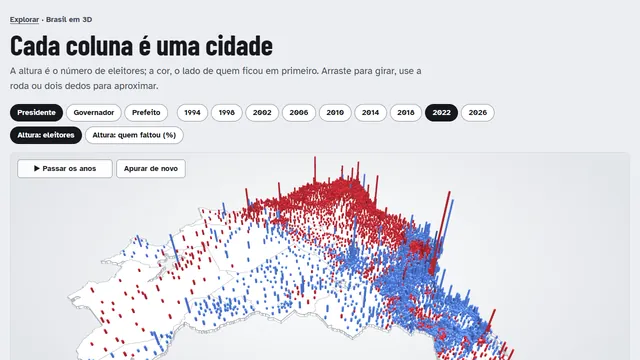
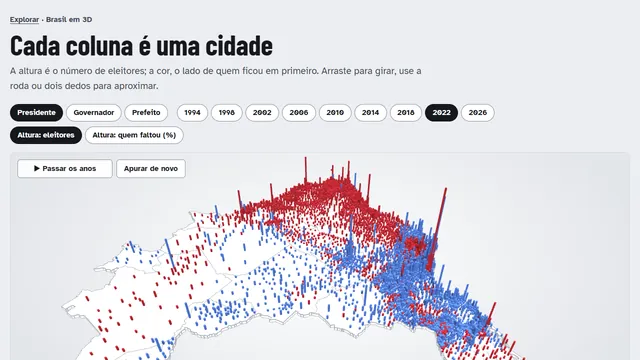
Polimento para a entrega: abas revisadas com explicações diretas, 2026 na apresentação e Grupo 6 corrigido
- Ficha: maior votação dos dois turnos, frase de resumo, nota em palavras, gastos da eleição mais recente
- Partidos: nota explicada, "quase sempre" no lugar da correlação, só a nota no gráfico (estudos num botão),
  comparação entre estudos recolhida
- Mapa: "Como a cor é decidida" e uma frase de como ler; Máquina do tempo e 3D com nomes conhecidos e números rotulados
- "Em resumo" na Ninguém e no Revela; frase para leigo nos Formulários
- Modo apresentação: passo de 2026 (Lula eleito no 2º turno) e o tema 1 no lugar do índice; Explorar numa grade só
- Corrida do patrimônio com os eleitos finais de 2026; miniaturas refeitas; sem o aviso de contas parciais
- trabalho-6-estados: "Grupo 5" corrigido para "Grupo 6" (ia para o apêndice do relatório)

Changed region(s): [[0.0938, 0.4278, 0.8125, 1.0]]

diff --git a/js/partidos.js b/js/partidos.js
@@ -39,8 +39,8 @@
       const dica = V.esc(`${r.sg} em ${ano}: nota ${fmt(s.c)} (${faixa(s.c)})` + F.filter((f) => s.f[f]).map((f) => `; ${NOME_F[f]} ${fmt(s.f[f].v)}${s.f[f].antiga || s.f[f].ano !== +ano ? " (medida de " + s.f[f].ano + ")" : ""}`).join("") + (s.incerta ? ". As medidas discordam do lado." : "") + (s.distante ? " Medida feita longe desta eleição." : ""));
       return `<g><title>${dica}</title>
         <text x="${lab - 10}" y="${y + 5}" text-anchor="end" font-size="${fs}" font-weight="700" fill="#16181d">${V.esc(r.sg)}</text>
-        ${s.max - s.min > 0.005 ? `<line x1="${x(s.min)}" x2="${x(s.max)}" y1="${y}" y2="${y}" stroke="#9aa0aa" stroke-width="2"/>` : ""}
-        ${F.filter((f) => s.f[f]).map((f) => marca(f, x(s.f[f].v), y, est ? 3.5 : 4.5, s.f[f].antiga ? 'opacity=".35"' : 'opacity=".8"')).join("")}
+        ${EST && EST.estudos && s.max - s.min > 0.005 ? `<line x1="${x(s.min)}" x2="${x(s.max)}" y1="${y}" y2="${y}" stroke="#9aa0aa" stroke-width="2"/>` : ""}
+        ${EST && EST.estudos ? F.filter((f) => s.f[f]).map((f) => marca(f, x(s.f[f].v), y, est ? 3.5 : 4.5, s.f[f].antiga ? 'opacity=".35"' : 'opacity=".8"')).join("") : ""}
         <circle cx="${x(s.c)}" cy="${y}" r="${est ? 6.5 : 7.5}" fill="${cor(s.c)}" stroke="#16181d" stroke-width="1.5"${s.incerta ? ' stroke-dasharray="3 2"' : ""}/>
         ${est || !s.incerta ? "" : `<text x="${W - dir + 12}" y="${y + 5}" font-size="14" font-weight="700" fill="#9c5d16">incerto</text>`}</g>`;
     }).join("");
@@ -118,7 +118,7 @@
     document.getElementById("pt-ano-tit").textContent = `Onde fica cada partido em ${ano}`;
     document.getElementById("pt-ano-sub").textContent = `${L.length} partidos que disputaram a eleição e foram medidos por pelo menos uma das quatro fontes. ${inc.length ? `As medidas discordam sobre o lado de ${inc.join(", ").replace(/, ([^,]*)$/, " e $1")}.` : "As medidas concordam sobre o lado de todos."}`;
     document.getElementById("pt-ano-graf").innerHTML = modo === "tab" ? tabelaAno(L, ano) : graficoAno(L, ano);
-    document.getElementById("pt-ano-leg").hidden = modo === "tab";
+    document.getElementById("pt-ano-leg").hidden = modo === "tab" || !EST.estudos;
     const i = EST.anos.indexOf(ano), fx = document.getElementById("pt-ano-faixa");
     if (fx) { fx.value = i; fx.setAttribute("aria-valuetext", ano); document.getElementById("pt-ano-num").textContent = ano;
       document.querySelector('[data-passo="-1"]').disabled = i <= 0; document.querySelector('[data-passo="1"]').disabled = i >= EST.anos.length - 1; }
@@ -140,6 +140,8 @@
 
   document.getElementById("conteudo").addEventListener("click", (e) => {
     if (!EST || !e.target.closest(".pt-pagina")) return;
+    const es = e.target.closest("[data-estudos]");
+    if (es) { EST.estudos = !EST.estudos; es.setAttribute("aria-pressed", String(EST.estudos)); es.textContent = EST.estudos ? "Esconder a nota de cada estudo" : "Mostrar a nota de cada estudo"; pintarAno(); return; }
     const ps = e.target.closest("[data-passo]");
     if (ps) { const j = EST.anos.indexOf(EST.ano) + +ps.dataset.passo; if (EST.anos[j]) { EST.ano = EST.anos[j]; pintarAno(); } return; }
     const a = e.target.closest("[data-ano]"), md = e.target.closest("#pt-ano [data-modo]"), p = e.target.closest("[data-partido]"), pr = e.target.closest("[data-par]");
@@ -171,7 +173,7 @@
     const rmin = Math.min(...pares.map((x) => x.p.r)), rmax = Math.max(...pares.map((x) => x.p.r));
     const anos = Object.keys(D.presentes).sort();
     let modo = "graf"; try { modo = localStorage.getItem("vav-pq-modo") === "tab" ? "tab" : "graf"; } catch (e) {}
-    EST = { D, anos, ano: anos.includes("2022") ? "2022" : anos[anos.length - 1], k: "PSDB", modo, par: 3, pares };
+    EST = { D, estudos: false, anos, ano: anos.includes("2022") ? "2022" : anos[anos.length - 1], k: "PSDB", modo, par: 3, pares };
     const nUlt = Object.keys(D.presentes[ultAno] || {}).filter((k) => D.partidos[k] && D.partidos[k].serie[ultAno]).length;
     const outros = Object.entries(D.partidos).filter(([k]) => !PRINC.includes(k) && Object.keys(D.partidos[k].serie).length > 1).sort((a, b) => a[1].nome.localeCompare(b[1].nome));
     const fonte = (f) => D.fontes[f];
@@ -183,9 +185,10 @@
         <p class="pq-resposta">Três estudos feitos por gente diferente põem o partido do mesmo lado em ${pct(igual, n)} das vezes. O voto na Câmara concorda com eles, menos no centrão${afast.length ? `: ${nomesL(afast)} votam mais ao centro do que os estudos dizem, porque acompanham o governo da vez` : ""}.</p>
         <ul class="kpis pt-kpis">
           <li><b>${pct(igual, n)}</b><span>das vezes, os três estudos põem o partido do mesmo lado</span></li>
-          <li><b>${r2(rmin)} a ${r2(rmax)}</b><span>de correlação entre as quatro medidas (1 seria concordância total)</span></li>
+          <li><b>Quase sempre</b><span>as quatro medidas dão notas parecidas a cada partido (correlação de ${r2(rmin)} a ${r2(rmax)}; 1 seria igual)</span></li>
           <li><b>${nUlt}</b><span>partidos com nota em ${ultAno}</span></li>
         </ul>
+        <p class="pt-escala">A nota de cada partido vai de <b>−1</b> (mais à esquerda) a <b>+1</b> (mais à direita); entre −0,25 e +0,25 é centro.</p>
         <details class="mais pt-mais"><summary>Quem deu as notas e como elas viram uma régua só</summary><p class="pq-mais">Deputados federais (Zucco e Power, 2024), 519 cientistas políticos brasileiros (Bolognesi, Ribeiro e Codato, 2023) e especialistas internacionais (V-Party, 2022) deram notas aos partidos. A quarta medida é o que as bancadas mandaram votar na Câmara de 2019 a 2026, a única que já pega o PL de Bolsonaro e o União Brasil. Tudo fica na mesma escala, de −1 (esquerda) a +1 (direita). A nota de cada partido em cada eleição pesa mais a medida feita mais perto dela, e é a régua que pinta o mapa.</p></details>
       </header>
 
@@ -196,7 +199,8 @@
         </div>
         <div class="pt-ano-passo"><button type="button" class="btn pt-seta" data-passo="-1" aria-label="Eleição anterior"></button><output id="pt-ano-num" class="pt-ano-num" for="pt-ano-faixa"></output><button type="button" class="btn pt-seta pt-seta--prox" data-passo="1" aria-label="Próxima eleição"></button>
           <label class="pt-ano-faixa"><span class="visualmente-oculto">Ano da eleição</span><input type="range" id="pt-ano-faixa" min="0" max="${anos.length - 1}" step="1" value="0"><span class="pt-ano-faixa__pontas" aria-hidden="true"><span>${anos[0]}</span><span>${anos[anos.length - 1]}</span></span></label></div>
-        <div id="pt-ano-leg">${legenda()}</div>
+        <p class="pt-estudos-linha"><button type="button" class="chip" data-estudos aria-pressed="false">Mostrar a nota de cada estudo</button></p>
+        <div id="pt-ano-leg" hidden>${legenda()}</div>
         <div class="pq-graf" id="pt-ano-graf"></div>
         <details class="mais pt-comoler"><summary>Como ler este gráfico</summary><p class="pq-nota">A bolinha colorida é a nota do partido (tracejada quando as medidas discordam do lado); a linha cinza vai da medida que põe o partido mais à esquerda à que põe mais à direita. Marca clara: medida feita longe desta eleição, que pesa menos. Faixa bege: o centro, de −0,25 a +0,25.</p></details>
       </section>
@@ -209,6 +213,7 @@
         <div class="pq-graf" id="pt-traj-graf"></div>
       </section>
 
+      <details class="mais pt-conc-mais"><summary>Como sabemos que a régua é confiável: os estudos comparados um a um</summary>
       <section class="pq-painel pt-concorda" id="pt-conc" aria-labelledby="pt-conc-tit">
         <div><h2 class="pq-painel__tit" id="pt-conc-tit">As medidas concordam entre si: correlação de ${r2(rmin)} a ${r2(rmax)}</h2>
           <p class="pq-painel__rec">Cada ponto é um partido medido pelas duas fontes em datas próximas (até 2 anos; até 5 com o voto na Câmara). Na diagonal, as duas dão a mesma nota. Em laranja, os casos em que põem o partido em lados diferentes.</p></div>
@@ -219,6 +224,7 @@
           <tbody>${pares.map(({ a, b, p }) => `<tr><th scope="row">${NOME_F[a]} × ${NOME_F[b]}</th><td class="num">${r2(p.r)}</td><td class="num">${p.mesmo_lado} de ${p.n}</td><td>${V.esc(agrupa(p.lados_diferentes, D)) || "—"}</td></tr>`).join("")}</tbody></table></div>
         <details class="mais pt-mais"><summary>Onde as medidas discordam</summary><p class="pq-mais">Entre os estudos, quem mais aparece em lados diferentes é o PSDB: para os deputados ele fica no centro, para o V-Party, que mede só a economia, ele é de direita. Entre os estudos e o voto, é o centrão: partidos que os especialistas põem à direita, mas que votam com o governo da vez, de Bolsonaro e de Lula, e por isso caem no meio da régua do voto.</p></details>
       </section>
+      </details>
 
       <details class="pq-origem"><summary>Como as notas foram feitas</summary>
         <p><b>As quatro medidas.</b> ${F.map((f) => `${fonte(f).nome}: ${fonte(f).quem}.`).join(" ")}</p>

diff --git a/js/politico.js b/js/politico.js
@@ -84,7 +84,7 @@
       return `<li class="${sit === "E" ? "pol-hist--eleito" : ""}">
         <span class="pol-hist__ano">${ano}</span>
         <span class="pol-hist__cargo"><b>${CARGO[cg] || "Cargo " + cg}</b> <span class="selo ${s[1]}"${s[2] ? ` title="${V.esc(s[2])}"` : ""}>${s[0]}</span><small>${V.esc(V.lugarPol(lugar, BR))}${nr ? ` · nº ${nr}` : ""}${ui >= 0 && !semUrna(urnas[ui]) ? ` · na urna: ${V.esc(V.titulo(urnas[ui]))}` : ""}</small></span>
-        <span class="pol-hist__partido">${partido(sg, n)} <small>${n != null ? nota(n) : "sem nota"}</small></span>
+        <span class="pol-hist__partido">${partido(sg, n)} <small>${n != null ? `${V.ESPN[faixa(n)].toLowerCase()} (${nota(n)})` : "partido sem nota"}</small></span>
         <span class="pol-hist__num"><span><small>Votos${v2 ? " (1º turno)" : ""}</small>${v1 != null ? V.int(v1) : "—"}</span>${v2 ? `<span><small>2º turno</small>${V.int(v2)}</span>` : ""}${din}${patr != null ? `<span><small>Bens declarados</small>${V.brl(patr)}</span>` : ""}</span>
       </li>`; }).join("")}</ol>`;
   }
@@ -208,21 +208,24 @@
     const fotos = await (FOTOS || (FOTOS = V.dados("br/pol/fotos").then((ids) => new Set(ids)).catch(() => new Set())));
     const foto = cf ? V.fotoOu(cf[0], cf[18], ini) : fotos.has(+id) ? `<img alt="" src="img/pol/${id % 100}/${id}.webp" onerror="this.replaceWith(document.createRange().createContextualFragment(this.dataset.f))" data-f="${V.esc(ini)}">` : ini;
     const maior = cands.reduce((m, c) => ((c[7] || 0) > (m[7] || 0) ? c : m), cands[0]);
+    // a maior votação olha os dois turnos (Lula: 64,3 milhões no 2º turno de 2026) e diz qual foi
+    const topo = cands.reduce((m, c) => { const v = Math.max(c[7] || 0, c[8] || 0); return v > m.v ? { v, c, t2: (c[8] || 0) > (c[7] || 0) } : m; }, { v: 0, c: cands[0], t2: false });
     // partidos na ordem em que passou por eles
     const trajeto = []; cands.forEach((c) => { const u = trajeto[trajeto.length - 1]; if (!u || u.sg !== c[3]) trajeto.push({ sg: c[3], de: c[0], ate: c[0] }); else u.ate = c[0]; });
     document.title = `${V.titulo(nome)} · Voto a voto`;
-    let selGasto = 0, selPlano = 0, filtro = "", nVotos = 30;
+    let selGasto = Math.max(0, cands.filter((c) => c[15] && c[15].length).length - 1), selPlano = 0, filtro = "", nVotos = 30;   // gastos: abre na eleição mais recente
     main.innerHTML = `<div class="pagina pol">
       <p class="pq-migalha"><a href="#/perguntas/e2">Histórico eleitoral</a> · <a href="#/perguntas">As 16 perguntas</a></p>
       <header class="pol-cab">
         <div class="pol-foto">${foto}</div>
         <div><h1 class="pol-nome">${V.esc(V.titulo(nome))}</h1>
           <p class="pol-sub">${urnasVal.length ? `Na urna: ${urnasVal.map((u) => V.esc(V.titulo(u))).join(", ")}` : ""}${nasc ? ` · nasceu em ${nasc}` : ""}${genero ? ` · ${V.esc(genero.toLowerCase())}` : ""}${cor && !/^#|N[ÃA]O INFORMADO|N[ÃA]O DIVULG/i.test(cor) ? ` · cor ou raça declarada: ${V.esc(cor.toLowerCase())}` : ""}</p>
+          <p class="pol-resumo">${V.esc(V.titulo(urnasVal.length ? urnasVal[urnasVal.length - 1] : nome))} disputou ${anos.length} ${anos.length === 1 ? "eleição" : "eleições"}${anos.length > 1 ? `, de ${anos[0]} a ${anos[anos.length - 1]},` : ` em ${anos[0]}`} e ${vit ? `venceu ${vit === anos.length && vit > 1 ? "todas" : vit}` : "não venceu nenhuma"}.</p>
           <ul class="pq-banco pol-banco">
             <li><b>${cands.length}</b><span>${cands.length === 1 ? "candidatura" : "candidaturas"}</span></li>
             <li><b>${vit}</b><span>${vit === 1 ? "vitória" : "vitórias"}</span></li>
             <li><b>${anos[0]}${anos.length > 1 ? "–" + anos[anos.length - 1] : ""}</b><span>${anos.length} ${anos.length === 1 ? "eleição" : "eleições"}</span></li>
-            <li><b>${maior[7] ? V.int(maior[7]) : "—"}</b><span>maior votação (${CARGO[maior[1]]} ${maior[0]})</span></li>
+            <li><b>${topo.v ? V.int(topo.v) : "—"}</b><span>maior votação (${CARGO[topo.c[1]]} ${topo.c[0]}${topo.t2 ? ", 2º turno" : ""})</span></li>
           </ul></div>
       </header>
       ${semTitulo ? '<p class="aviso">O arquivo do TSE não trouxe o título de eleitor desta candidatura (acontece em 1996 e em registros incompletos). Sem ele, não dá para ligar com certeza as candidaturas desta pessoa em outros anos, que podem estar em outra ficha.</p>' : ""}

diff --git a/js/apresentar.js b/js/apresentar.js
@@ -7,9 +7,10 @@
     ["#/", "O candidato mais votado do Brasil se chama Ninguém", "Em 2024, 42,6 milhões de eleitores faltaram, anularam ou votaram em branco para prefeito."],
     ["#/multidao", "Ninguém, em pessoas", "Cada ponto são mil eleitores. Eles saem das cidades onde moram e lotam o Maracanã 539 vezes."],
     ["#/mapa", "As 5.570 cidades", "Cada cidade com a cor do lado de quem venceu, de 1994 a 2026, em sete cargos."],
+    ["#/mapa/e/PRES2026", "2026: Lula eleito no 2º turno", "64,3 milhões de votos contra 59,8 milhões de Flávio Bolsonaro. Do 1º para o 2º turno, 215 cidades mudaram de lado."],
     ["#/tempo", "Trinta anos em um minuto", "As eleições para presidente passando uma a uma, cidade por cidade."],
     ["#/3d", "O Brasil em 3D", "Cada coluna é uma cidade: a altura é o número de eleitores; a cor, o lado de quem venceu."],
-    ["#/perguntas", "As 16 perguntas do trabalho", "Cada tema do enunciado com a resposta em uma frase, os números que a sustentam e os gráficos, do banco nacional."],
+    ["#/perguntas/t1", "As 16 perguntas do trabalho", "Cada tema respondido pergunta por pergunta: uma frase direta e o gráfico que a mostra, com os números do banco nacional."],
     ["#/partidos", "Onde fica cada partido", "Entre a esquerda e a direita, segundo três estudos acadêmicos e o voto na Câmara."],
     ["#/politico/1713641", "A ficha de 2,4 milhões de candidatos", "Cada eleição, partido, votos, dinheiro e bens."],
     ["#/patrimonio", "Quem declarou mais bens", "Os eleitos com mais bens declarados ao TSE, eleição por eleição, de 2006 a 2026."],
@@ -93,8 +94,7 @@
           <p>O site inteiro em ${ROTEIRO.length} passos, do Ninguém às 16 perguntas, em tela cheia. Passe com as setas do teclado ou com o passador de slides; Esc sai.</p></div>
         <button type="button" class="btn btn--confirma vis-comecar" id="vis-comecar">Começar a apresentação</button>
       </section>
-      <section aria-labelledby="vis-ver"><h2 class="secao__titulo" id="vis-ver">Para ver</h2><ul class="vis-cards">${VER.map(cartao).join("")}</ul></section>
-      <section aria-labelledby="vis-usar"><h2 class="secao__titulo" id="vis-usar">Para usar</h2><ul class="vis-cards vis-cards--usar">${USAR.map(cartao).join("")}</ul></section>
+      <section aria-labelledby="vis-ver"><h2 class="secao__titulo" id="vis-ver">Para ver e usar</h2><ul class="vis-cards">${[...VER, ...USAR].map(cartao).join("")}</ul></section>
     </div>`;
     document.getElementById("vis-comecar").addEventListener("click", () => V.comecarTour(0));
   });

diff --git a/js/visuais.js b/js/visuais.js
@@ -23,13 +23,16 @@
   V.SEM_COR = "#d9dce1";
   V.corVenc = (w) => (w && w[9] ? V.corNota(w[8]) : V.SEM_COR);
 
+  // os presidenciáveis pelo nome que o eleitor conhece (o arquivo antigo do TSE traz o nome completo)
+  const CURTO = { "LUIZ INACIO LULA DA SILVA": "Lula", "FERNANDO HENRIQUE CARDOSO": "Fernando Henrique", "ESPERIDIAO AMIN HELOU FILHO": "Esperidião Amin", "LEONEL DE MOURA BRIZOLA": "Brizola", "ORESTES QUERCIA": "Quércia" };
+  V.nomeCurto = (n) => CURTO[String(n || "").toUpperCase()] || V.titulo(n);
   // resumo de uma eleição: cidades por lado e os nomes (ou partidos) que mais ficaram em 1º
   V.resumoVis = (venc, cargo) => {
     const lados = { esquerda: 0, centro: 0, direita: 0, sem: 0 }, nomes = new Map();
     for (const w of Object.values(venc)) {
       if (!w || !w[9]) { lados.sem++; continue; }
       lados[V.faixa(w[8]) || "sem"]++;
-      const k = cargo === "PRES" ? V.titulo(w[1]) : V.nomePartido(w[2]);
+      const k = cargo === "PRES" ? V.nomeCurto(w[1]) : V.nomePartido(w[2]);
       nomes.set(k, (nomes.get(k) || 0) + 1);
     }
     return { lados, top: [...nomes].sort((a, b) => b[1] - a[1]).slice(0, 3) };
@@ -42,7 +45,8 @@
   V.barraLados = (r) => {
     const t = r.lados.esquerda + r.lados.centro + r.lados.direita + r.lados.sem || 1;
     const f = [["esquerda", V.corNota(-0.75), "#fff"], ["centro", V.corNota(0), "#16181d"], ["direita", V.corNota(0.75), "#fff"], ["sem", V.SEM_COR, "#16181d"]];
-    return `<div class="vis-barra" role="img" aria-label="${f.map(([k]) => `${k === "sem" ? "sem resultado" : k}: ${V.int(r.lados[k])} cidades`).join(", ")}">${f.map(([k, c, tc]) => r.lados[k] ? `<i style="flex-basis:${(100 * r.lados[k]) / t}%;background:${c};color:${tc}">${(100 * r.lados[k]) / t >= 9 ? V.int(r.lados[k]) : ""}</i>` : "").join("")}</div>`;
+    return `<div class="vis-barra" role="img" aria-label="${f.map(([k]) => `${k === "sem" ? "sem resultado" : k}: ${V.int(r.lados[k])} cidades`).join(", ")}">${f.map(([k, c, tc]) => r.lados[k] ? `<i style="flex-basis:${(100 * r.lados[k]) / t}%;background:${c};color:${tc}">${(100 * r.lados[k]) / t >= 9 ? V.int(r.lados[k]) : ""}</i>` : "").join("")}</div>
+      <p class="vis-barra__leg">Cidades onde venceu a esquerda: <b>${V.int(r.lados.esquerda)}</b> · o centro: <b>${V.int(r.lados.centro)}</b> · a direita: <b>${V.int(r.lados.direita)}</b>${r.lados.sem ? ` · sem resultado: ${V.int(r.lados.sem)}` : ""}</p>`;
   };
 
   // um mapa do Brasil em <canvas>, com as cidades já projetadas (data/br/geo_proj): bem mais leve que 5.570 <path> para animar

diff --git a/index.html b/index.html
@@ -5,7 +5,7 @@
 <meta name="viewport" content="width=device-width, initial-scale=1, viewport-fit=cover">
 <title>Voto a voto · o que o voto revela sobre o Brasil</title>
 <meta name="description" content="Como votou cada uma das 5.570 cidades do Brasil, de 1994 a 2026, com os partidos na régua ideológica de Zucco e Power (Harvard Dataverse).">
-<link rel="stylesheet" href="css/estilo.css?v=20261118-afirma3">
+<link rel="stylesheet" href="css/estilo.css?v=20261118-polir">
 </head>
 <body>
 <a class="pular" href="#conteudo">Pular para o conteúdo</a>
@@ -36,24 +36,24 @@
 </footer>
 <script src="vendor/d3.min.js"></script>
 <script src="vendor/topojson-client.min.js"></script>
-<script src="js/base.js?v=20261118-malha"></script>
-<script src="js/brasil.js?v=20261118-mapa"></script>
+<script src="js/base.js?v=20261118-polir"></script>
+<script src="js/brasil.js?v=20261118-polir"></script>
 <script src="js/mapa.js"></script>
 <script src="js/cidade.js?v=20261027-revisao"></script>
 <script src="js/candidato.js?v=20261027-revisao"></script>
-<script src="js/revela.js?v=20261118-afirma"></script>
+<script src="js/revela.js?v=20261118-polir"></script>
 <script src="js/perguntas.js?v=20261118-afirma"></script>
-<script src="js/detalhes.js?v=20261116-temas"></script>
-<script src="js/partidos.js?v=20261118-partes2"></script>
-<script src="js/politico.js?v=20261118-mapa"></script>
-<script src="js/ninguem.js?v=20261118-fase4c"></script>
-<script src="js/visuais.js?v=20261118-mapa"></script>
+<script src="js/detalhes.js?v=20261118-polir"></script>
+<script src="js/partidos.js?v=20261118-polir"></script>
+<script src="js/politico.js?v=20261118-polir"></script>
+<script src="js/ninguem.js?v=20261118-polir"></script>
+<script src="js/visuais.js?v=20261118-polir"></script>
 <script src="js/tempo.js?v=20261027-vis3"></script>
-<script src="js/tres.js?v=20261027-vis2"></script>
+<script src="js/tres.js?v=20261118-polir"></script>
 <script src="js/multidao.js?v=20261027-vis3"></script>
 <script src="js/patrimonio.js?v=20261027-vis2"></script>
-<script src="js/formularios.js?v=20261117-ui"></script>
-<script src="js/apresentar.js?v=20261118-mapa"></script>
+<script src="js/formularios.js?v=20261118-polir"></script>
+<script src="js/apresentar.js?v=20261118-polir"></script>
 <script src="js/testes.js?v=20261118-afirma"></script>
 <script src="js/app.js"></script>
 </body>

diff --git a/js/brasil.js b/js/brasil.js
@@ -421,12 +421,13 @@
 
   /* ---------- o ato de votar: quem foi, quem faltou, quem anulou ou votou em branco ---------- */
   const legVenc = () => `<span class="mapa-leg__escala"><span>Esquerda</span><i></i><span>Direita</span></span>
-      <a class="mapa-leg__regua" href="#/mapa" data-alvo="reguas">Régua ${REGUA === "voto" && H && H.ano < 2018 ? "de Harvard (para anos antes de 2019)" : NOME_REGUA[REGUA]}</a>
+      <a class="mapa-leg__regua" href="#/mapa" data-alvo="reguas" title="Régua ${REGUA === "voto" && H && H.ano < 2018 ? "de Harvard (para anos antes de 2019)" : NOME_REGUA[REGUA]}">Como a cor é decidida</a>
       <span class="mapa-leg__item" id="leg-indef-box" hidden><i class="mapa-leg__risco"></i><span>Sem resultado oficial: eleição anulada ou em julgamento (<span id="leg-indef"></span>)</span></span>
       <span class="mapa-leg__item" id="leg-novo-box" hidden><i class="mapa-leg__novo"></i><span>Ainda não era município neste ano (<span id="leg-novo"></span>)</span></span>
       <span class="mapa-leg__item" id="leg-pref-box" hidden><i class="mapa-leg__novo"></i><span id="leg-pref">Não elege prefeito: Brasília e Fernando de Noronha</span></span>
       <span class="mapa-leg__item" id="leg-sem-box" hidden><i class="mapa-leg__sem"></i><span>Partido que os estudos não medem (<span id="leg-sem"></span>)</span></span>
-      <span class="mapa-leg__dica"><span class="so-mouse">Clique num estado, depois numa cidade · Ctrl + rolagem aproxima</span><span class="so-toque">Toque num estado, depois numa cidade · dois dedos aproximam</span></span>`;
+      <span class="mapa-leg__dica"><span class="so-mouse">Clique num estado, depois numa cidade · Ctrl + rolagem aproxima</span><span class="so-toque">Toque num estado, depois numa cidade · dois dedos aproximam</span></span>
+      <span class="mapa-leg__ler">Como ler: cada cidade tem a cor do partido de quem venceu ali. Quanto mais forte o vermelho, mais à esquerda; quanto mais forte o azul, mais à direita; bege é centro.</span>`;
   const MET = {
     abst: { cores: ["#f7f1e6", "#ecd2a4", "#d49a4a", "#9c5d16", "#58320a"], valor: (t) => (t[0] ? (100 * t[2]) / t[0] : null), rot: "eleitores que não foram votar" },
     bn: { cores: ["#f4f1f8", "#d3c7e6", "#a48ccb", "#6d51a3", "#3b2766"], valor: (t) => (t[1] ? (100 * (t[3] + t[4])) / t[1] : null), rot: "votos brancos e nulos" },

diff --git a/js/tres.js b/js/tres.js
@@ -99,7 +99,7 @@
       });
       const r = V.resumoVis(venc, cg2);
       document.getElementById("tres-ano").textContent = a;
-      document.getElementById("tres-resumo").innerHTML = `${V.NOME_VIS[cg2]} ${a}: ${r.top[0] ? `<b>${V.esc(r.top[0][0])}</b> ficou em 1º em ${V.int(r.top[0][1])} cidades. ` : ""}Esquerda em ${V.int(r.lados.esquerda)}, centro em ${V.int(r.lados.centro)}, direita em ${V.int(r.lados.direita)}.`;
+      document.getElementById("tres-resumo").innerHTML = `${V.NOME_VIS[cg2]} ${a}: ${r.top[0] ? `<b>${V.esc(r.top[0][0])}</b> ficou em 1º em ${V.int(r.top[0][1])} cidades${r.top[1] ? `; <b>${V.esc(r.top[1][0])}</b>, em ${V.int(r.top[1][1])}` : ""}.` : "sem resultados."}`;
       renderer.domElement.setAttribute("aria-label", `Brasil em 3D, ${V.NOME_VIS[cg2].toLowerCase()} ${a}: colunas com a altura ${medida === "eleitores" ? "do número de eleitores" : "da parte que faltou"} e a cor do lado vencedor.`);
       document.getElementById("tres-sub").textContent = medida === "eleitores" ? "A altura é o número de eleitores; a cor, o lado de quem ficou em primeiro. Arraste para girar, use a roda ou dois dedos para aproximar." : "A altura é a parte dos eleitores que não foi votar; a cor, o lado de quem ficou em primeiro. Arraste para girar.";
       main.querySelectorAll("[data-vis-ano]").forEach((b) => b.setAttribute("aria-pressed", +b.dataset.visAno === a));

diff --git a/css/estilo.css b/css/estilo.css
@@ -1261,3 +1261,16 @@ details.pq-pontos[open], details.pq-cuidado[open] { padding-bottom: 18px; }
 .pq-parte .pq-painel { gap: var(--e-2); }
 .pq-parte .pq-graf__cab { gap: 0; }
 @media (max-width: 560px) { .kpis--tema { grid-template-columns: minmax(0, 1fr); } }
+.pol-resumo { font-size: var(--t-corpo); font-weight: 700; color: var(--tinta); margin-top: var(--e-2); }
+.pt-escala { color: var(--tinta-2); font-size: var(--t-meta); margin-top: var(--e-2); }
+.pt-estudos-linha { margin: 0; }
+.pt-conc-mais { margin-top: var(--e-5); }
+.pt-conc-mais[open] > .pt-concorda { margin-top: var(--e-3); }
+.mapa-leg__ler { flex-basis: 100%; color: var(--tinta-2); font-size: var(--t-meta); }
+.vis-barra__leg { font-size: var(--t-min); color: var(--tinta-2); margin-top: var(--e-1); }
+/* "Em resumo": três frases para quem só passa os olhos */
+.em-resumo { background: var(--papel); border: 1px solid var(--linha); border-radius: var(--r-l); padding: var(--e-4) var(--e-5); max-width: 980px; }
+.em-resumo__tit { font: var(--t-h3); margin-bottom: var(--e-2); }
+.em-resumo ul { margin: 0; padding-left: 20px; display: grid; gap: var(--e-1); }
+.em-resumo li { font-size: var(--t-corpo); }
+.form-leigo { font-size: 19px; font-weight: 700; max-width: 62ch; }

diff --git a/js/ninguem.js b/js/ninguem.js
@@ -100,6 +100,11 @@
           <li><b>${(ning / top[1]).toFixed(1).replace(".", ",")} vezes</b><span>os votos do partido mais votado, o ${V.esc(top[0])} (${mi(top[1])})</span></li>
           <li><b>${V.int(cidadesNinguem)}</b><span>cidades onde Ninguém teve mais votos que o candidato mais votado</span></li>
         </ul>
+        <div class="em-resumo"><h2 class="em-resumo__tit">Em resumo</h2><ul>
+          <li>De cada 10 votos do Ninguém, ${Math.round(pf / 10)} são de quem nem foi votar; os outros anularam ou votaram em branco.</li>
+          <li>Ele é maior na cidade grande: ${V.pct(porTam[4].v, 0)} do eleitorado, contra ${V.pct(porTam[0].v, 0)} na cidade pequena.</li>
+          <li>Quem mais falta é o jovem de 21 a 29 anos: ${V.pct(p2129, 0)} não foram votar.</li>
+        </ul></div>
       </header>
       <section class="urna-hero" aria-label="Urna: experimente digitar">
         <div class="urna-corpo">

diff --git a/js/formularios.js b/js/formularios.js
@@ -360,6 +360,7 @@
       <header class="pq-cab nao-imprime">
         <p class="manchete__onde"><a href="#/explorar">Explorar</a> · Formulários e relatórios</p>
         <h1 class="titulo-grande">Formulários e relatórios</h1>
+        <p class="form-leigo">Aqui dá para testar o banco de dados: cadastrar, mudar e apagar candidatos, partidos e votos. Quando uma regra não deixa (um número repetido, um partido que não existe), o sistema avisa e mostra por quê.</p>
         <p class="pq-mais">Inclua, altere e exclua registros com as regras do banco (chave primária, UNIQUE, chave estrangeira e CHECK) e imprima os relatórios. Amostra real: eleições municipais de 2020 e 2024 em ${esc(BASE.cidade.nome)} (${BASE.cidade.uf}), ${V.int(DB.candidatura.length)} candidaturas.</p>
         <p class="form-aviso"><b id="form-ops"></b>. As mudanças ficam só neste navegador.</p>
       </header>

diff --git a/js/base.js b/js/base.js
@@ -23,7 +23,7 @@
         const s = document.createElement("script");
         let fim = false;
         const relogio = n < 2 ? setTimeout(() => { if (!fim && !window.__D[chave]) tentar(n + 1); }, 12000) : null;
-        s.src = "data/" + chave + ".js?v=20261118-malha" + (n ? "&t=" + n : "");
+        s.src = "data/" + chave + ".js?v=20261118-polir" + (n ? "&t=" + n : "");
         s.onload = () => { fim = true; clearTimeout(relogio); if (window.__D[chave]) ok(window.__D[chave]); else falha(new Error("Arquivo sem dados: " + chave)); };
         s.onerror = () => { fim = true; clearTimeout(relogio); s.remove(); if (window.__D[chave]) return; if (n < 2) setTimeout(() => tentar(n + 1), 600 * (n + 1)); else { delete pend[chave]; falha(new Error("Não foi possível carregar " + chave)); } };
         document.head.appendChild(s);

diff --git a/js/revela.js b/js/revela.js
@@ -173,6 +173,7 @@
     main.innerHTML = `<div class="pagina revela">
       <header class="revela__topo"><h1 class="titulo-grande">O que o voto revela</h1>
         <p class="lead">Oito achados de trinta anos de eleições, de 1994 a 2026, nas 5.570 cidades. Cada título já é a resposta; o gráfico mostra de onde ela vem.</p>
+        <div class="em-resumo"><h2 class="em-resumo__tit">Em resumo</h2><ul>${[blocos[0], blocos[1], blocos[7]].map((b) => `<li>${b.tit}.</li>`).join("")}</ul></div>
       </header>
       <nav aria-label="Os oito achados"><ol class="capitulos revela__indice">${blocos.map((b, i) => `<li><a href="#/revela" data-alvo="${b.id}"><span class="capitulos__n">${i + 1}</span><span><b>${b.indice}</b><small>${b.tema}</small></span></a></li>`).join("")}</ol></nav>
       ${blocos.map(bloco).join("")}
